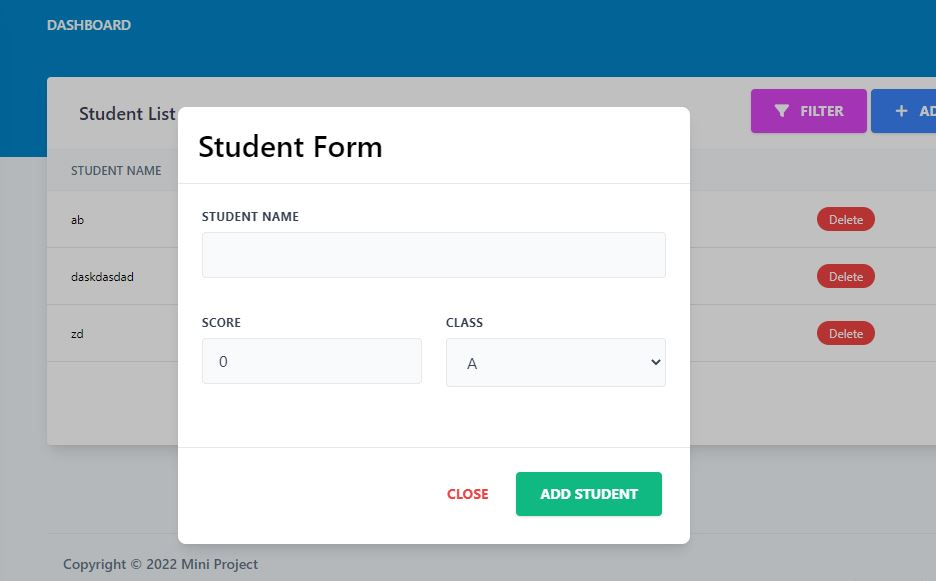
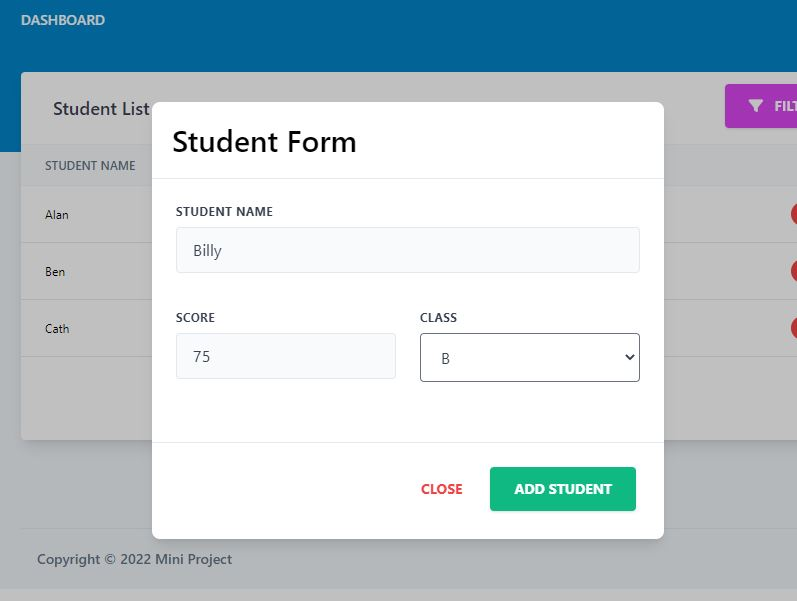
readme image update

diff --git a/src/services/const.tsx b/src/services/const.tsx
@@ -23,7 +23,7 @@ export const sidebarLinkActive = {
 const studentList = [
   { id: 1, name: "Alan", score: 70, class: "A" },
   { id: 2, name: "Ben", score: 90, class: "B" },
-  { id: 3, name: "Alan", score: 80, class: "C" },
+  { id: 3, name: "Cath", score: 80, class: "C" },
 ];
 const localStorageObj = localStorage.getItem("Students");
 if (!localStorageObj)
